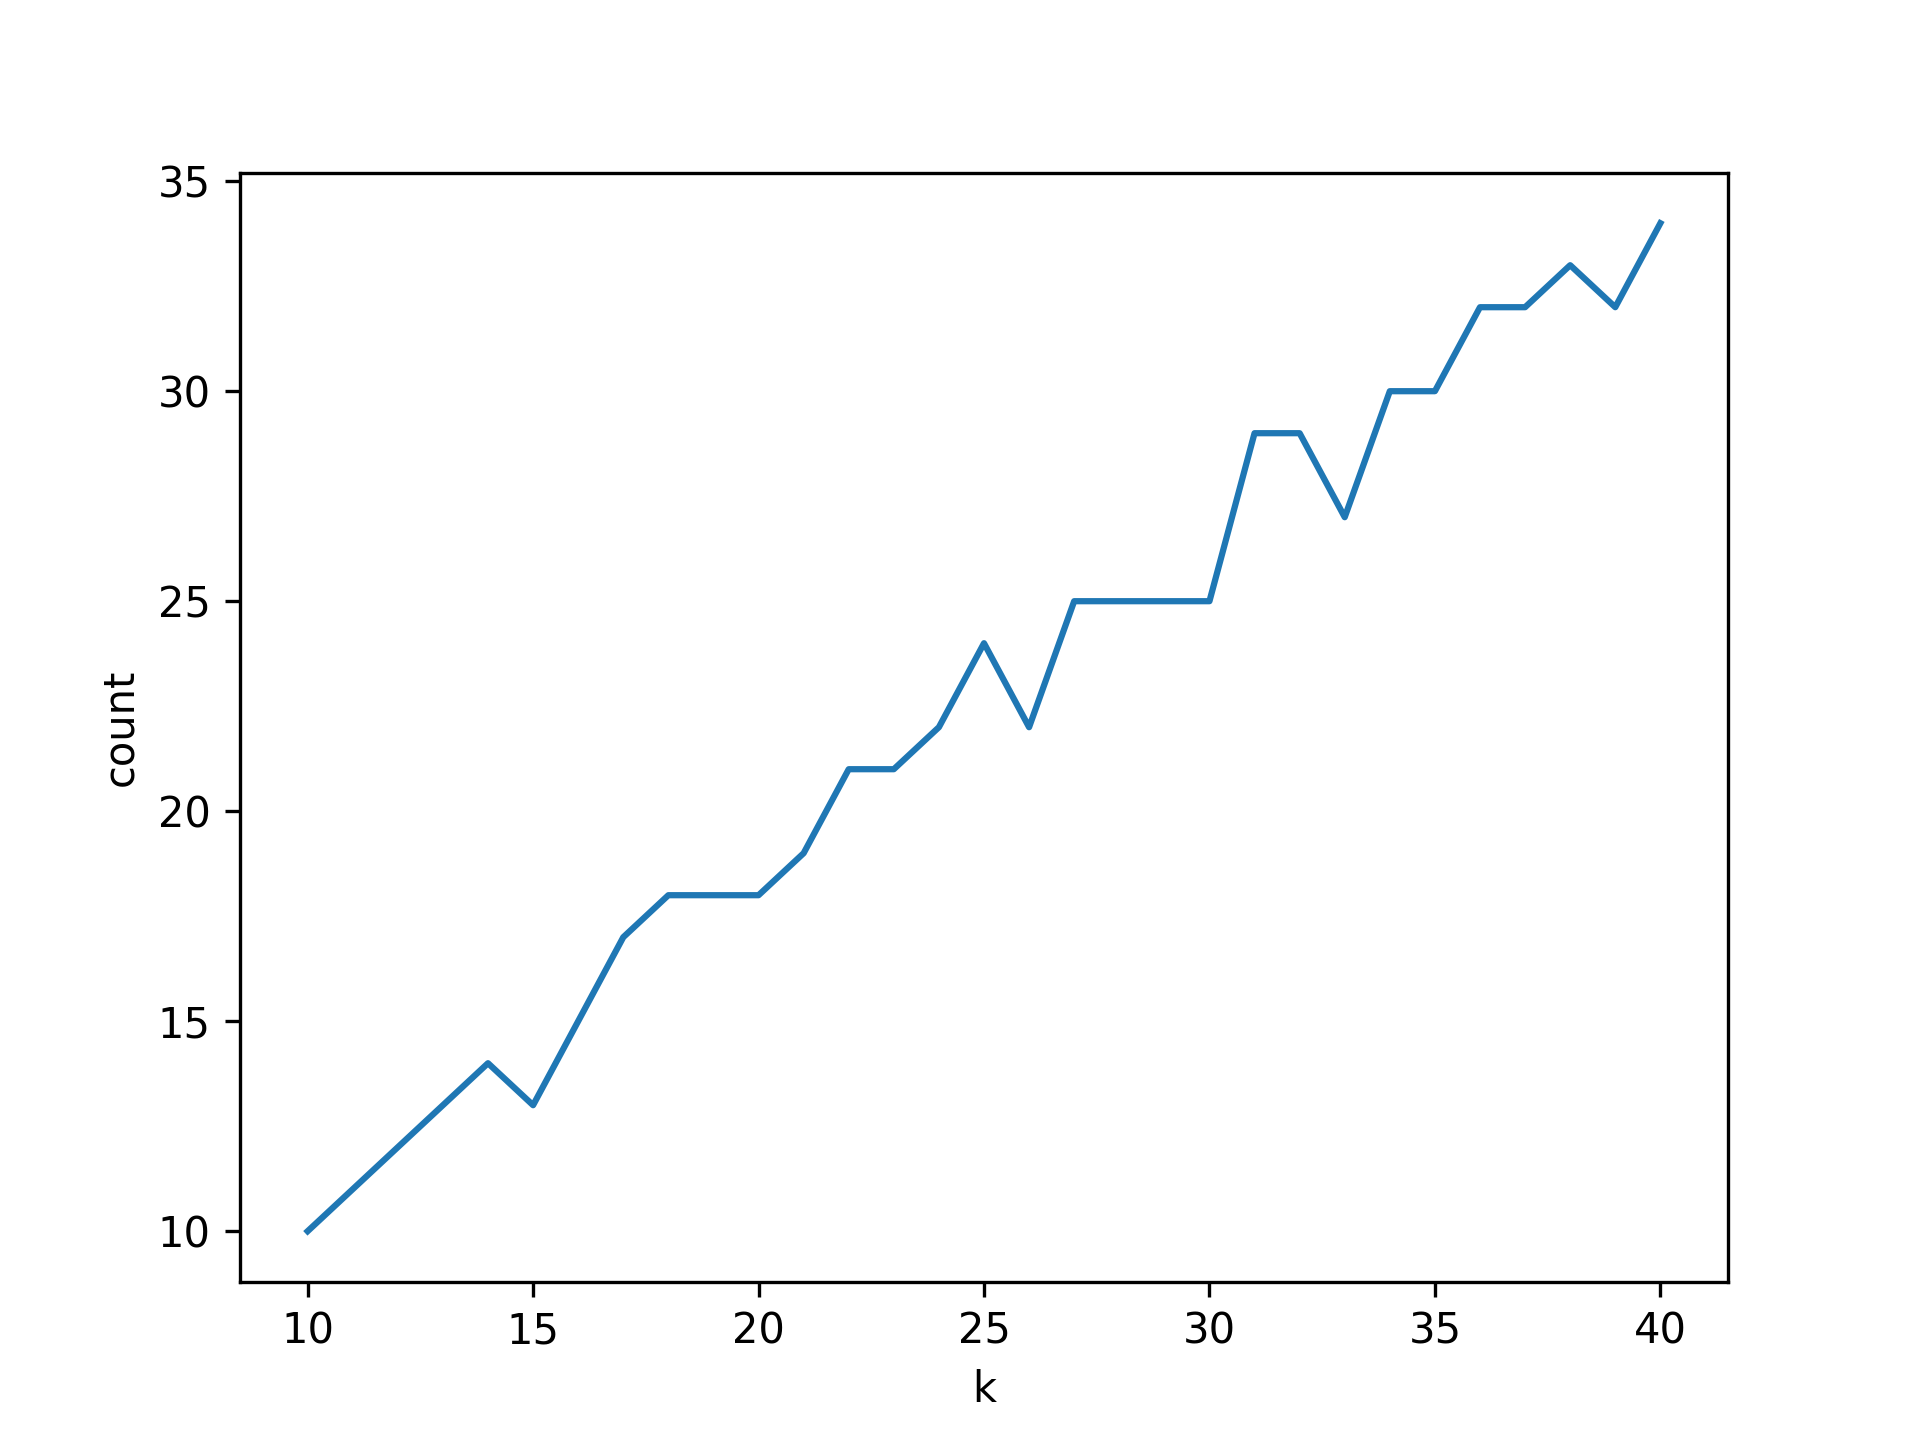
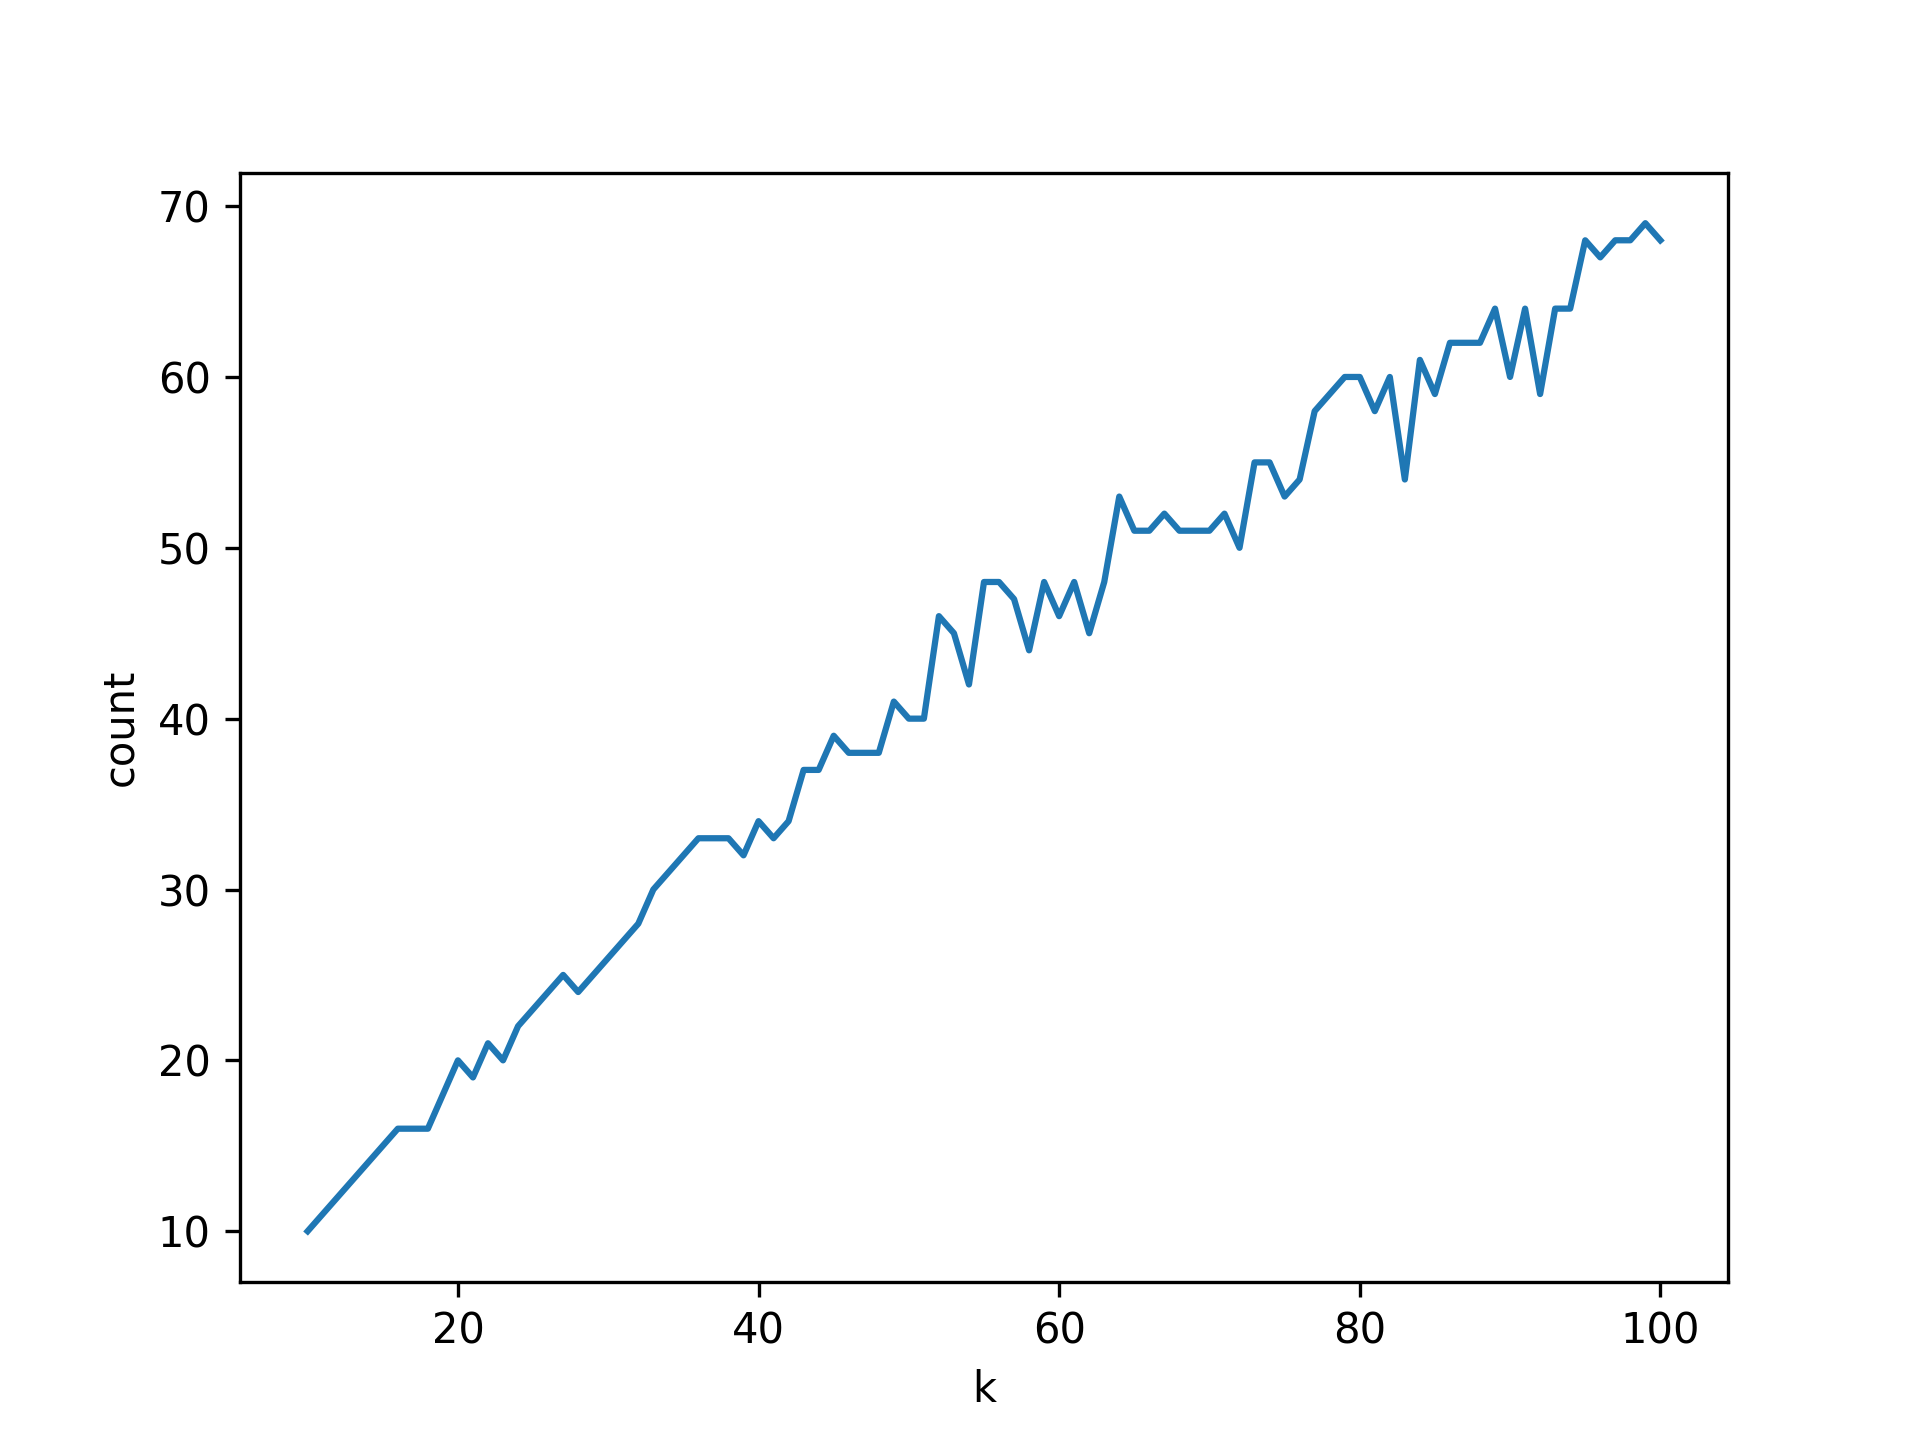
new results

diff --git a/scripts/exp_k_param.py b/scripts/exp_k_param.py
@@ -25,7 +25,7 @@ count = []
 ars = []
 hcv = []
 
-for i in range(10, 41, 1):
+for i in range(10, 101, 1):
     print('k = ' + str(i))
     model = KMeans(n_clusters=i, n_jobs=-1)
     model.fit(X_train)
@@ -46,7 +46,7 @@ df['count'] = count
 df['ars'] = ars
 
 df.columns = ['homogeneity', 'completeness', 'v_measure', 'count', 'ars']
-df['k'] = range(10, 41, 1)
+df['k'] = range(10, 101, 1)
 
 co = df[['k', 'count', 'ars', 'homogeneity', 'completeness', 'v_measure']]
 co.to_csv('/home/mluser/master8_projects/clustering_vacancies/results/df_vacancies_full_clusters_results_ru_prog_k.csv', index=False)
